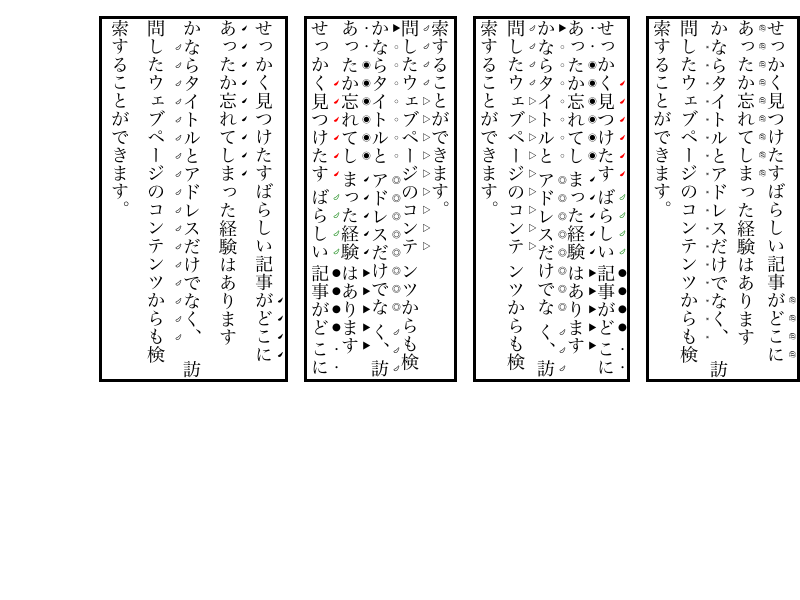
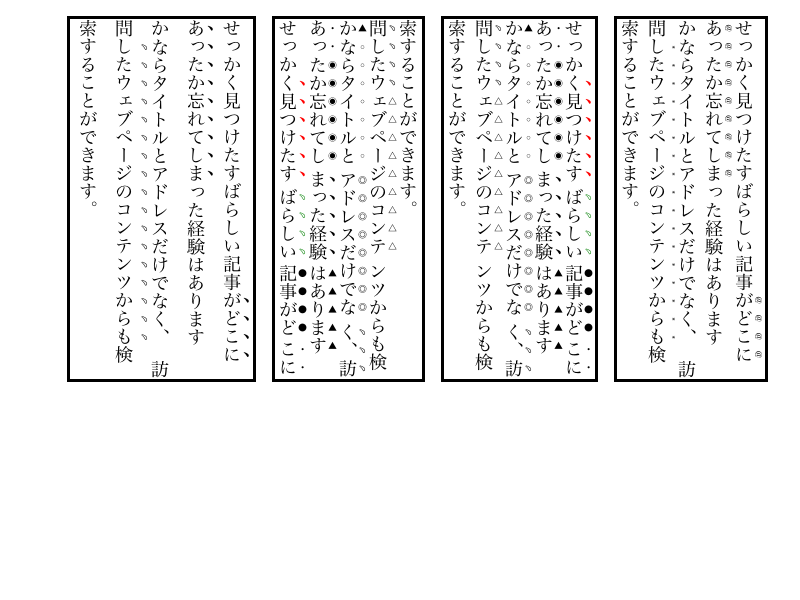
<rdar://problem/8948788> Text emphasis marks have wrong orientation for vertical text https://bugs.webkit.org/show_bug.cgi?id=53709
Reviewed by Anders Carlsson.

Source/WebCore: 

Covered by rendering of fast/text/emphasis-vertical.html

* platform/graphics/mac/SimpleFontDataMac.mm:
(WebCore::SimpleFontData::scaledFontData): Give the scaled font the same orientation this font
has.

LayoutTests: 

* platform/mac/fast/text/emphasis-vertical-expected.checksum:
* platform/mac/fast/text/emphasis-vertical-expected.png:

git-svn-id: https://svn.webkit.org/repository/webkit/trunk@77530 268f45cc-cd09-0410-ab3c-d52691b4dbfc

Changed region(s): [[0.0625, 0.0, 1.0, 0.66], [0.0938, 0.63, 0.125, 0.66]]

diff --git a/Source/WebCore/platform/graphics/mac/SimpleFontDataMac.mm b/Source/WebCore/platform/graphics/mac/SimpleFontDataMac.mm
@@ -394,7 +394,7 @@ SimpleFontData* SimpleFontData::scaledFontData(const FontDescription& fontDescri
 
     BEGIN_BLOCK_OBJC_EXCEPTIONS;
     float size = m_platformData.size() * scaleFactor;
-    FontPlatformData scaledFontData([[NSFontManager sharedFontManager] convertFont:m_platformData.font() toSize:size], size);
+    FontPlatformData scaledFontData([[NSFontManager sharedFontManager] convertFont:m_platformData.font() toSize:size], size, false, false, m_platformData.orientation());
 
     // AppKit resets the type information (screen/printer) when you convert a font to a different size.
     // We have to fix up the font that we're handed back.
